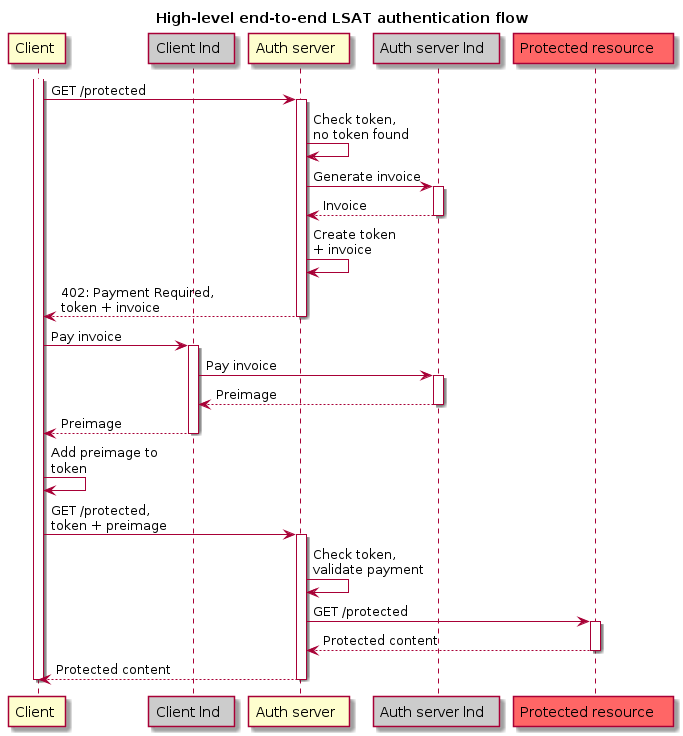
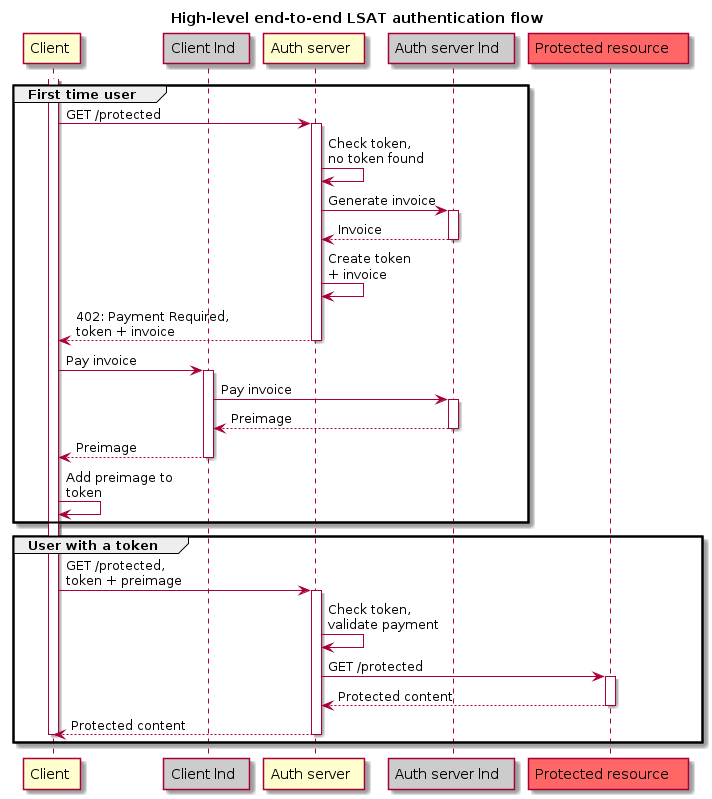
Write authentication flow and import protocol specification

Changed region(s): [[0.0, 0.0, 1.0, 1.0], [0.5842, 0.4688, 0.6764, 0.5625], [0.2767, 0.8125, 0.3075, 0.8438]]

diff --git a/protocol-specification.md b/protocol-specification.md
@@ -1,0 +1,218 @@
+# Protocol Specification
+
+## Introduction
+
+In this chapter, we outline the specification for the abstract LSAT HTTP and
+gRPC protocols. This is intended to be along the lines of the document we would
+submit if we were submitting the LSAT HTTP/gRPC protocol to a standards
+committee. For more details on the higher-level purpose and motivations behind
+LSAT, please [see this chapter](introduction.md).
+
+## Specification
+
+This section defines the "LSAT" authentication scheme, which transmits
+credentials as `<macaroon>:<preimage>` pairs, where the preimage and
+the macaroon are each encoded as base64. This scheme is not considered to be a
+secure method of user authentication unless used in conjunction with some
+external secure system such as TLS, as the macaroon and preimage are passed over
+the network as cleartext.
+
+The LSAT authentication scheme is based on the model that the client needs to
+authenticate itself with a macaroon and invoice preimage for each backend
+service it wants to access. The server will service the request only if it can
+validate the macaroon and preimage for the particular backend service requested.
+
+The LSAT authentication scheme utilizes the Authentication Framework specified
+in [*RFC 7235*](https://tools.ietf.org/html/rfc7235) as follows.
+
+In challenges: the scheme name is "LSAT". Note that the scheme name is case-
+insensitive. For credentials, the syntax is:
+
+
+`macaroon` → [*&lt;base64 encoding&gt;*](https://tools.ietf.org/html/rfc3548#section-3),
+comma separated if multiple macaroons are present    
+`preimage` → [*&lt;base64 encoding&gt;*](https://tools.ietf.org/html/rfc3548#section-3)  
+`token`    → macaroon ":" preimage
+
+
+Specifically, the syntax for "token" specified above is used, which can be
+considered comparable to the
+[*"token68" syntax*](https://tools.ietf.org/html/rfc7235#section-2.1) used for
+HTTP basic auth.
+
+### Reusing Credentials
+
+LSATs are intended to be reused until they are revoked and the server issues a
+new challenge in response to a client request containing a newly invalid LSAT.
+Possible revocation conditions include: expiry date, exceeded N usages, volume
+of usages in a certain time period necessitating a tier upgrade, and potentially
+others (discussed further in the higher-level design document).
+
+LSATs could be configured for use on a per-backend-service basis or for all
+Lightning Labs services. I.e., it’s flexible whether an LSAT could apply to both
+the Bos score API *and* a loop-in, or just one of them. This flexibility is
+afforded because all services are going to be gated by the same LSAT proxy,
+which verifies all macaroons for all backend services.
+
+### Security Considerations
+
+If a client’s LSAT is intercepted by Mallory, which possible if the transmission
+is not encrypted in some way such as TLS, the LSAT can be used by Mallory and
+the LSAT proxy would not be able to distinguish this usage as illicit.
+
+LSAT authentication is also vulnerable to spoofing by counterfeit servers. If a
+client slightly mistypes the URL of a desired backend service, they become
+vulnerable to spoofing attacks if connecting to a server that maliciously stores
+their LSAT and uses it for their own purposes. This attack could be addressed by
+requiring the user of the LSAT to have a specific IP address. However, there are
+downsides to this approach; for example, if a user switches WiFi networks, their
+token becomes unusable.
+
+## HTTP Specification
+
+In this section, we specify the protocol for the HTTP portion of the LSAT proxy.
+
+Upon receipt of a request for a URI of an LSAT-proxied backend service that
+lacks credentials or contains an LSAT that is invalid or insufficient in some
+way, the server should reply with a challenge using the 402 (Payment Required)
+status code. **Officially, in the HTTP RFC documentation, status code 402 is **
+[***"reserved for future use"***](https://tools.ietf.org/html/rfc7231#section-6.5.2)
+** -- but this document assumes the future has arrived.**
+
+Alongside the 402 status code, the server should specify the `WWW-Authenticate`
+header ([*\[RFC7235\], Section 4.1*](https://tools.ietf.org/html/rfc7235#section-4.1))
+field to indicate the LSAT authentication scheme and the macaroon needed for the
+client to form a complete LSAT.
+
+For instance:
+
+```text
+ HTTP/1.1 402 Payment Required
+
+Date: Mon, 04 Feb 2014 16:50:53 GMT
+
[1 lines of base64/hex data omitted]
+```
+
+where `"AGIAJEemVQUTEyNCR0exk7ek90Cg=="` is the macaroon that the client must
+include for each of its authorized requests and `"lnbc1500n1pw5kjhmpp..."` is
+the invoice the client must pay to reveal the preimage that must be included for
+each of its authorized requests.
+
+In other words, to receive authorization, the client:
+
+1. Pays the invoice from the server, thus revealing the invoice’s preimage
+2. Constructs the LSAT by concatenating the base64-encoded macaroon(s), a single
+  colon (":"), and the base64-encoded preimage.
+
+Since the macaroon and the preimage are both base64-encoded binary data, there
+should be no problem with either containing control characters or colons
+(see "CTL" in
+[*Appendix B.1 of \[RFC5234\]*](https://tools.ietf.org/html/rfc5234#appendix-B.1)).
+If a user provides a macaroon or preimage containing any of these characters,
+this is to be considered an invalid LSAT and should result in a 402 and
+authentication information as specified above.
+
+If a client wishes to send the macaroon `"AGIAJEemVQUTEyNCR0exk7ek90Cg=="`
+(already base64-encoded by the server) and the preimage `"123412341234"`, they
+would use the following header field:
+
+```text
+Authorization: LSAT AGIAJEemVQUTEyNCR0exk7ek90Cg==:MTIzNDEyMzQxMjM0
+```
+
+## gRPC Protocol Specification
+
+This section defines the "LSAT" gRPC authentication scheme, which, similarly to
+the HTTP version, transmits credentials as `<macaroon>:<preimage>` pairs where
+each field is encoded as base64. As above, this scheme is not considered to be a
+secure method of user authentication unless used in conjunction with some
+external secure system such as TLS, as the macaroon and preimage are passed over
+the network as cleartext.
+
+The LSAT proxy will determine whether an incoming HTTP request is gRPC by
+checking whether the Content-Type header begins with application/grpc, therefore
+gRPC clients must set this header in all requests.
+
+Note that the LSAT proxy must be HTTP/2 compatible to accommodate requests for
+gRPC backend services, since the gRPC client expects to be talking to a server
+that "speaks" HTTP/2.
+
+Upon receipt of a request for a URI of an LSAT-proxied backend service that
+lacks LSAT credentials,, the server should reply with a challenge encoded in the
+grpc-status-details-bin HTTP header as a serialized gRPC Status proto message,
+to be deserialized on the client side. Once deserialized, the proto will look
+roughly like this object:
+
+```json
+{
+    code: 402,
+    message: "missing LSAT",
+    details: {
+        type_url: "type.googleapis.com/google.rpc.QuotaFailure",
+        value: {
+            macaroon: "<macaroon>",
+            invoice: "<invoice>"
+        }
+    }
+}
+```
+
+Note that deserialization is language-dependent. In Go, it looks something like
+this:
+
+```go
+_, err := client.AccessBackendService(ctx, &pb.BackendServiceRequest{})
+If err != nil {
+        st, _ := status.FromError(err)
+        message := st.Message() // get message
+        code := st.Code() // get code
+        for _, detail := range st.Details() {
+                switch t := detail.(type) {
+                case *errdetails.QuotaFailure:
+                for _, violation := range t.GetViolations() {
+                        // parse macaroon from "macaroon:&lt;mac&gt;" format
+                        // parse invoice from "invoice:&lt;inv&gt;" format
+…
+```
+
+Serialization is similarly language-dependent.
+
+Depending on the context, QuotaFailure may not be the most descriptive error
+message, but it fits a scenario where a user has exceeded their free
+"trial period" for a backend service.
+
+Alongside the serialized status details, the server should specify status code
+`200 OK`, the `Content-Type` header, and the following trailers:
+`grpc-message` and `grpc-status`.
+
+For instance:
+
+```text
+HTTP/2 200 OK
+Date: Mon, 04 Feb 2014 16:50:53 GMT
+Content-Type: application/grpc
+…
+Grpc-Message: missing LSAT
+Grpc-Status: 402
+Grpc-Status-Details-Bin: CJIDEgxtaXNzaW5nIExTQVQaeQ…
+```
+
+Where `"CJIDEgxtaXNzaW5nIExTQVQaeQ…"` is the serialized gRPC status proto.
+
+Once the client has deserialized the proto and extracted the macaroon and
+invoice, they may pay the invoice and construct the LSAT identically to the
+HTTP specification, i.e. by concatenating the base64-encoded macaroon, a single
+colon (":"), and the base64-encoded preimage.
+
+If a client wishes to send the macaroon `"AGIAJEemVQUTEyNCR0exk7ek90Cg=="`
+(already base64-encoded by the server) and the preimage `"123412341234"`, they
+would use the following header field:
+
+```text
+Authorization: LSAT AGIAJEemVQUTEyNCR0exk7ek90Cg==:MTIzNDEyMzQxMjM0
+```
+
+Note this is the same as the HTTP specification.Other gRPC headers and trailers
+are required; more information can be found in the
+[*gRPC over HTTP2 specification*](https://github.com/grpc/grpc/blob/master/doc/PROTOCOL-HTTP2.md).

diff --git a/authentication-flow.md b/authentication-flow.md
@@ -1,0 +1,43 @@
+# Authentication flow
+
+This chapter explains the high-level authentication flow from the perspective
+of a user's client software that wants to access a protected resource that is
+secured by an authentication server.  
+As an example, we will look at the `loopd` client that wants to do a loop out
+swap with the Lightning Lab's loop server.
+
+**First time looping out**:
+1. A loop user wishes to perform a swap with the loop server. They type the
+  command `loop out <amount>` and hit return.
+1. The `loopd` client program contacts the loop server to initiate the swap.
+1. The call from the client must always go through the authentication server
+  reverse proxy, which in this example is `kirin`. The authentication proxy
+  notices that the client didn't send an LSAT and therefore cannot be granted
+  access to the loop server.
+1. `kirin` instructs its own `lnd` instance to create an invoice over a small
+  amount that is required to acquire a fresh token.
+1. In addition to the invoice, `kirin` also creates a fresh access token that is
+  tied to the invoice. The token is cryptographically constructed in a way that
+  it is only valid once the invoice has been paid.
+1. The token and the invoice are sent back to the client in the previously
+  unused HTTP header `402 Payment Required`.
+1. The `loopd` understands this returned error code, extracts the invoice from
+  it and automatically instructs its connected `lnd` instance to pay the
+  invoice.
+1. Paying the invoice results in the `loopd` client now possessing the
+  cryptographic proof of payment (the pre-image). This proof is stored in the
+  client's local storage, together with the access token.
+1. The combination of the access token and the pre-image yields a fully valid
+  LSAT that can be cryptographically verified.
+1. The client now repeats the original request to the loop server, now attaching
+  the LSAT to the request.
+1. The authentication server intercepts the request, extracts the LSAT and
+  validates it. Because the LSAT is valid, the request is forwarded to the
+  actual loop server that then initiates the swap.
+1. The answer of the swap server is returned to the client and the swap is
+  now initiated.
+1. The whole process is fully transparent to the user. The only thing they might
+  notice is a short delay of a few seconds on the first ever loop. Each
+  successive loop will use the same token and will not be delayed at all.
+
+![e2e flow sequence diagram](plantuml/e2e-flow.png)

diff --git a/README.md b/README.md
@@ -1,8 +1,19 @@
 # LSAT
 
-This is the documentation for the Lightning Service Authentication Token \(LSAT\) protocol.
+In this document, we outline the design for a Lightning Service Authentication
+Token (LSAT) for future services created by Lightning Labs. The high level idea
+is that before a user can interact with any of our paid services, they need to
+first obtain an authentication token. In order to obtain a token, we require the
+user to pay us over Lightning in order to obtain a pre-image, which itself is
+the token.
+
+The implementation of the authentication token is chosen to be macaroons, as
+they allow us to package attributes and capabilities along with
+the token. This system allows us to automate pricing on the fly and allows for
+a number of novel constructs such as automated tier upgrades.
+In another light, this can be viewed as a global HTTP 402 reverse proxy at the
+load balancing level for all our services.
 
 * [Introduction](introduction.md)
-* [Authentication flow](high-level-flow.md)
-* [Technical flow](technical-flow.md)
-
+* [Authentication flow](authentication-flow.md)
+* [Protocol specification](protocol-specification.md)

diff --git a/SUMMARY.md b/SUMMARY.md
@@ -2,6 +2,5 @@
 
 * [LSAT](README.md)
 * [Introduction](introduction.md)
-* [High-level authentication flow](high-level-flow.md)
-* [Technical flow](technical-flow.md)
-
+* [Authentication flow](authentication-flow.md)
+* [Protocol specification](protocol-specification.md)

diff --git a/introduction.md b/introduction.md
@@ -1,2 +1,3 @@
 # Introduction
 
+## Goals
